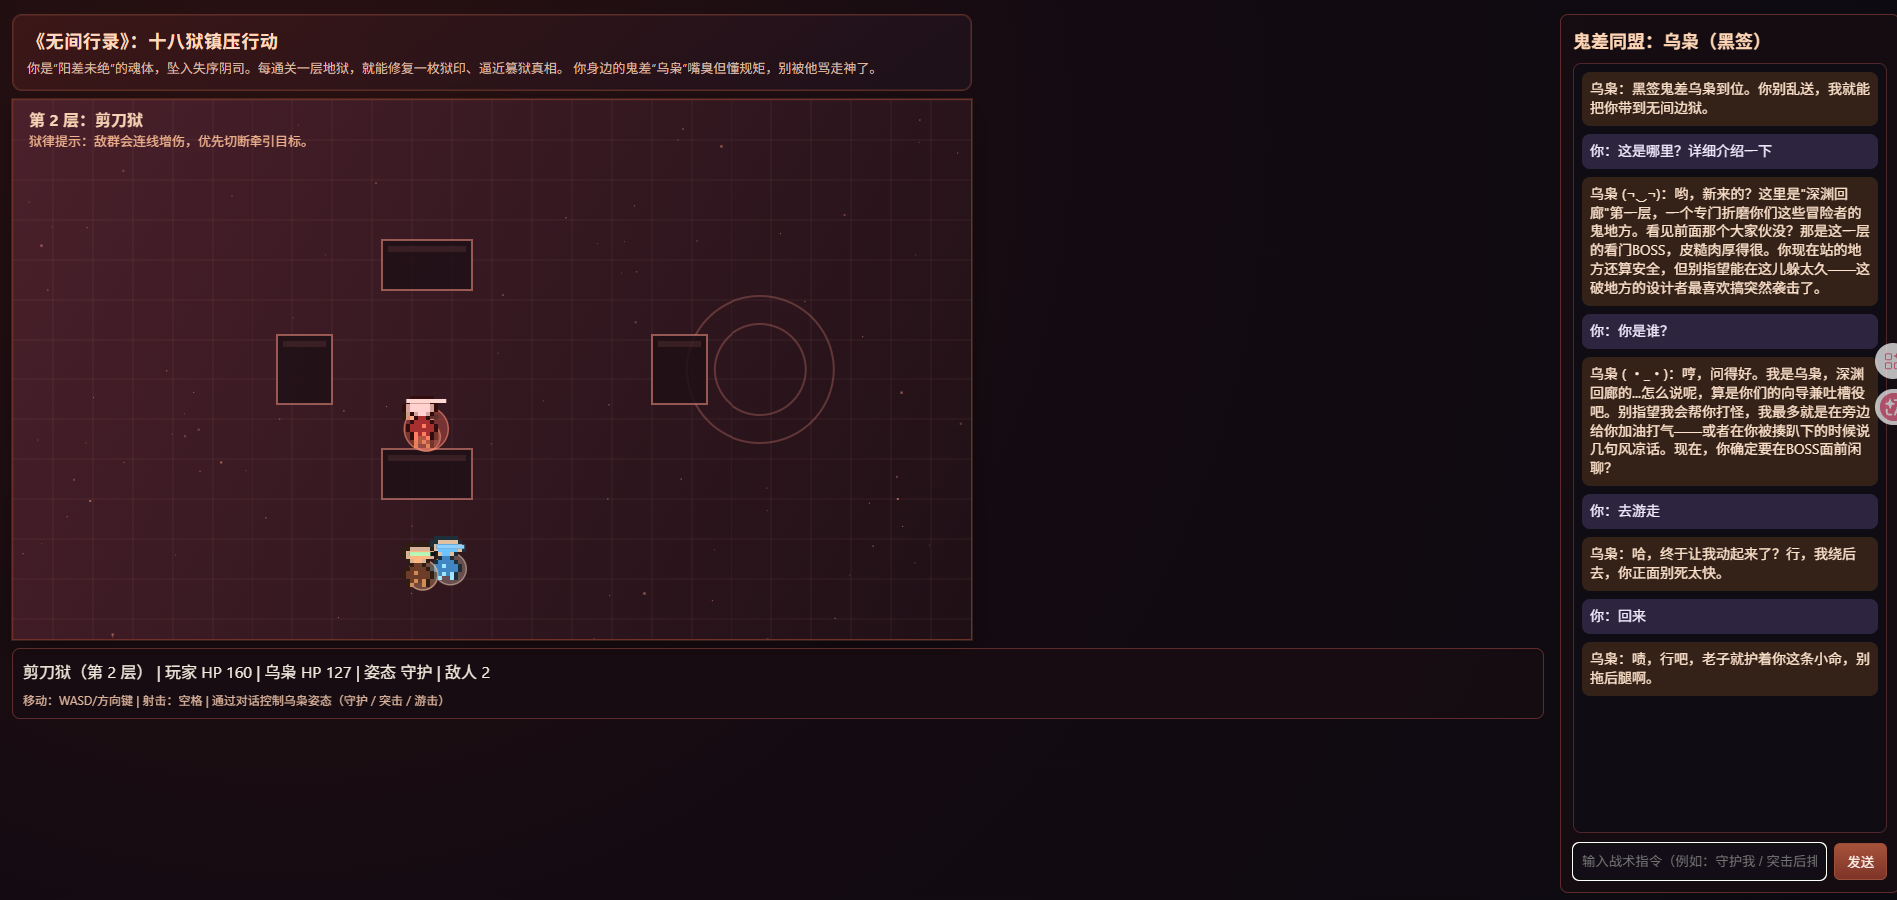
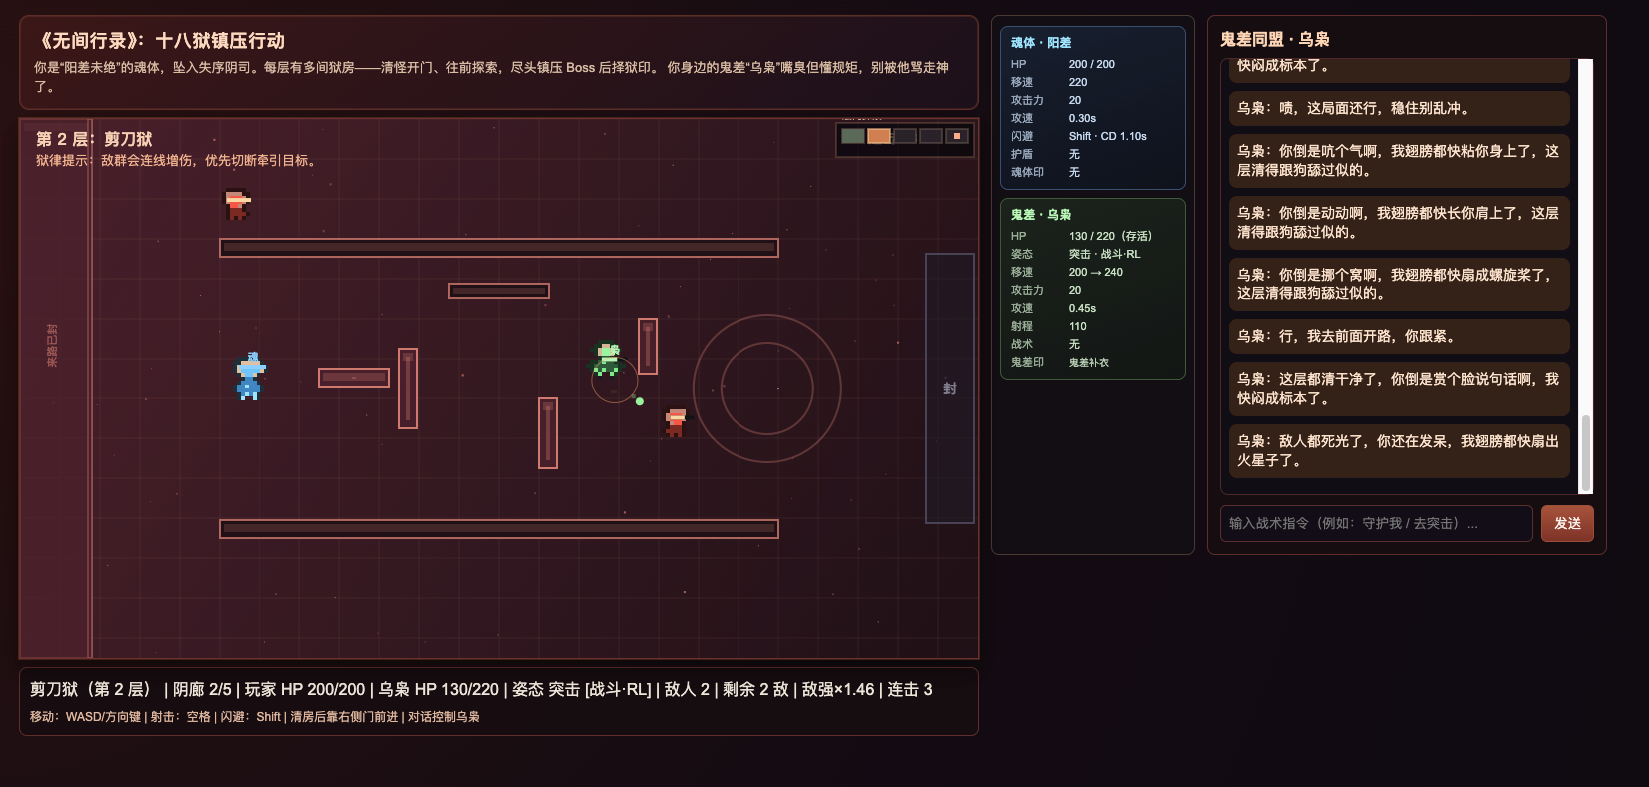
doc

diff --git a/README.md b/README.md
@@ -5,7 +5,6 @@
 游戏前端（`game/`）与 NPC 后端（`server/`）完全分离：浏览器负责战斗与渲染，Python 服务负责 LLM 对话、战术指令解析和自主决策。
 
 ![模拟游戏界面-1](images/img1.png)
-![模拟游戏界面-2](images/img2.png)
 
 ---
 
@@ -224,29 +223,3 @@ NPC API（server/）
 更细的模块说明见 `Agents.md`。
 
 ---
-
-## 常见问题
-
-**Q: 聊天没反应？**  
-确认 `python run.py` 在跑、`config.yaml` 中 API Key 正确，且浏览器能访问 `http://127.0.0.1:5100/health`。
-
-**Q: 启动报嵌入模型找不到？**  
-将 `BAAI/bge-small-zh-v1.5` 放到 `models/`，或把 `config.yaml` 里 `embeddings.local_files_only` 改为 `false`。
-
-**Q: 乌枭从不主动说话？**  
-自主发言受冷却和局面变化约束；危急或换层时更容易触发。可在 `config.yaml` 的 `npc_autonomy` 段调整间隔（修改后需重启 `run.py`）。
-
-**Q: 改 API 地址？**  
-后端端口在 `run.py`；前端请求地址在 `game/game.js` 顶部 `NPC_API` 常量，默认 `http://127.0.0.1:5100`。
-
----
-
-## 验证 API
-
-```bash
-curl http://127.0.0.1:5100/health
-
-curl -X POST http://127.0.0.1:5100/api/chat/stream \
-  -H "Content-Type: application/json" \
-  -d '{"player_id":"p1","npc_id":"wuxiao_01","npc_name":"乌枭","message":"这里有多少敌人？","scene_info":{"mode":"battle","floor":1,"ally_stance":"guard","enemy_count":3}}'
-```